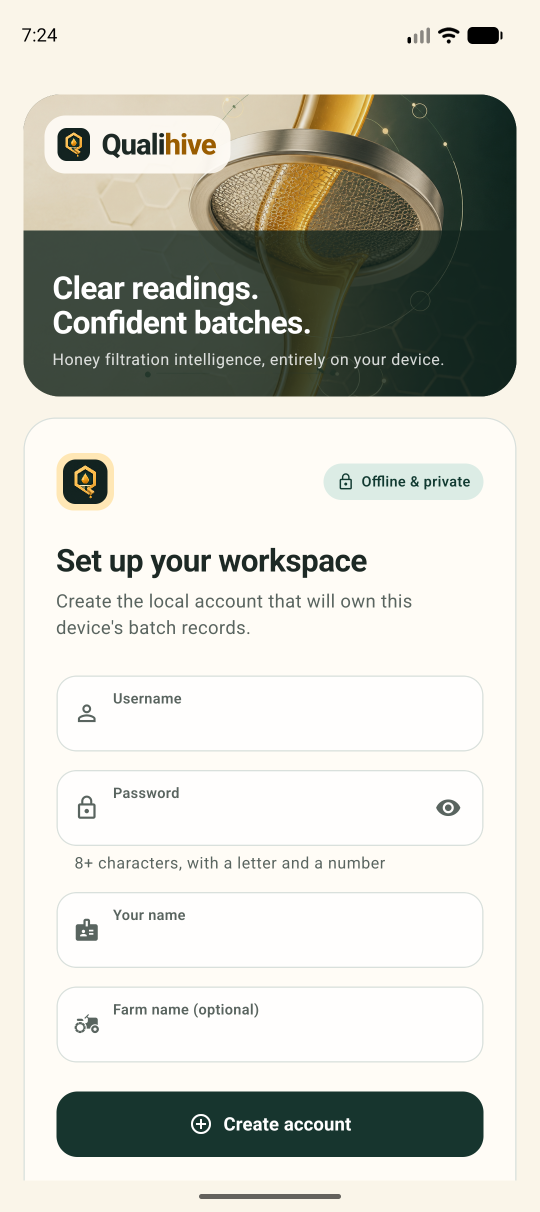
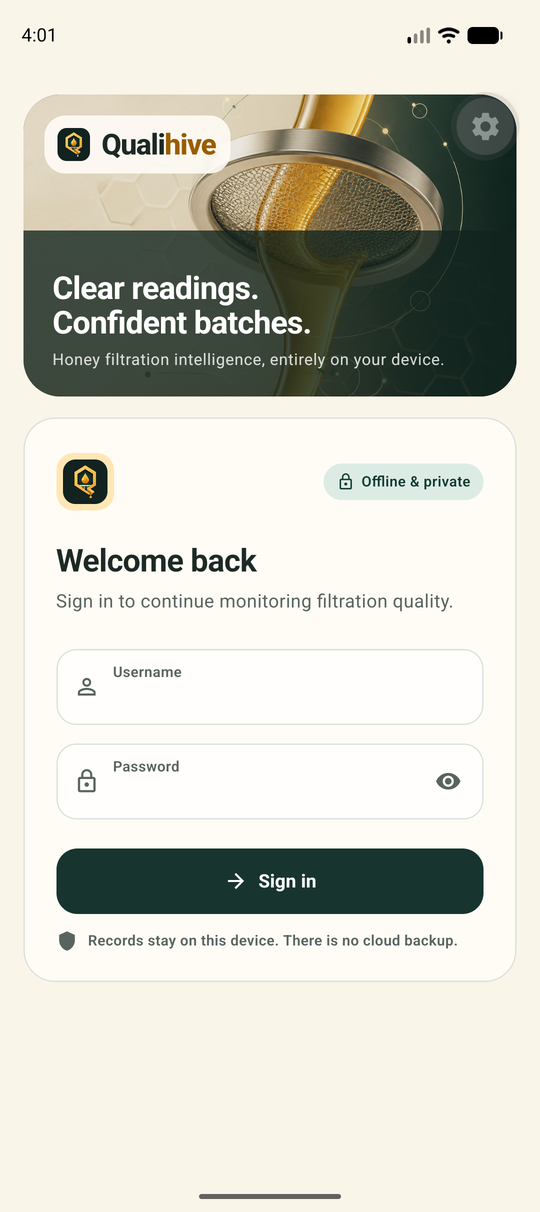
v1.3.6

diff --git a/site/index.html b/site/index.html
@@ -179,8 +179,8 @@
           <h1>Honey quality,<br />clearly measured.</h1>
           <p class="lede">
             Qualihive connects to the honey filtration machine over Bluetooth, grades every
-            reading against the reference values, records each run as a traceable batch, and
-            exports the assessment report — all offline, on the phone.
+            reading against the reference values, and records each run as a traceable batch — all
+            offline, on the phone.
           </p>
 
           <a id="download" class="download" href="https://github.com/Sean-Brix/Qualihive/releases/latest/download/qualihive-release.apk">
@@ -215,7 +215,7 @@
           <div class="card"><div class="n">1</div><h3>Download</h3><p>Tap the button above on the phone, or scan the QR code. The file is <code>qualihive-release.apk</code>.</p></div>
           <div class="card"><div class="n">2</div><h3>Open the file</h3><p>Pull down the notification or open <b>Files → Downloads</b> and tap the APK.</p></div>
           <div class="card"><div class="n">3</div><h3>Allow the install</h3><p>If asked, allow <b>Install unknown apps</b> for your browser or Files app, then go back and tap <b>Install</b>.</p></div>
-          <div class="card"><div class="n">4</div><h3>Create your account</h3><p>Open Qualihive and set up the local account that owns the batch records. Nothing leaves the phone.</p></div>
+          <div class="card"><div class="n">4</div><h3>Sign in</h3><p>Open Qualihive and sign in with username <code>admin</code> and password <code>123456</code>. Nothing leaves the phone.</p></div>
         </div>
         <div class="note">
           <span>ⓘ</span>
@@ -234,8 +234,7 @@
           <li>History, statistics and trends across batches</li>
           <li>Editable reference values with provisional ranges clearly marked</li>
           <li>Notifications for out-of-range readings, sensor faults and disconnections</li>
-          <li>PDF quality reports and CSV exports, shared from the phone</li>
-          <li>Offline by design — accounts and records stay on the device</li>
+          <li>Offline by design — records stay on the device</li>
           <li>Built-in simulator for demos when the machine is not around</li>
         </ul>
       </section>
